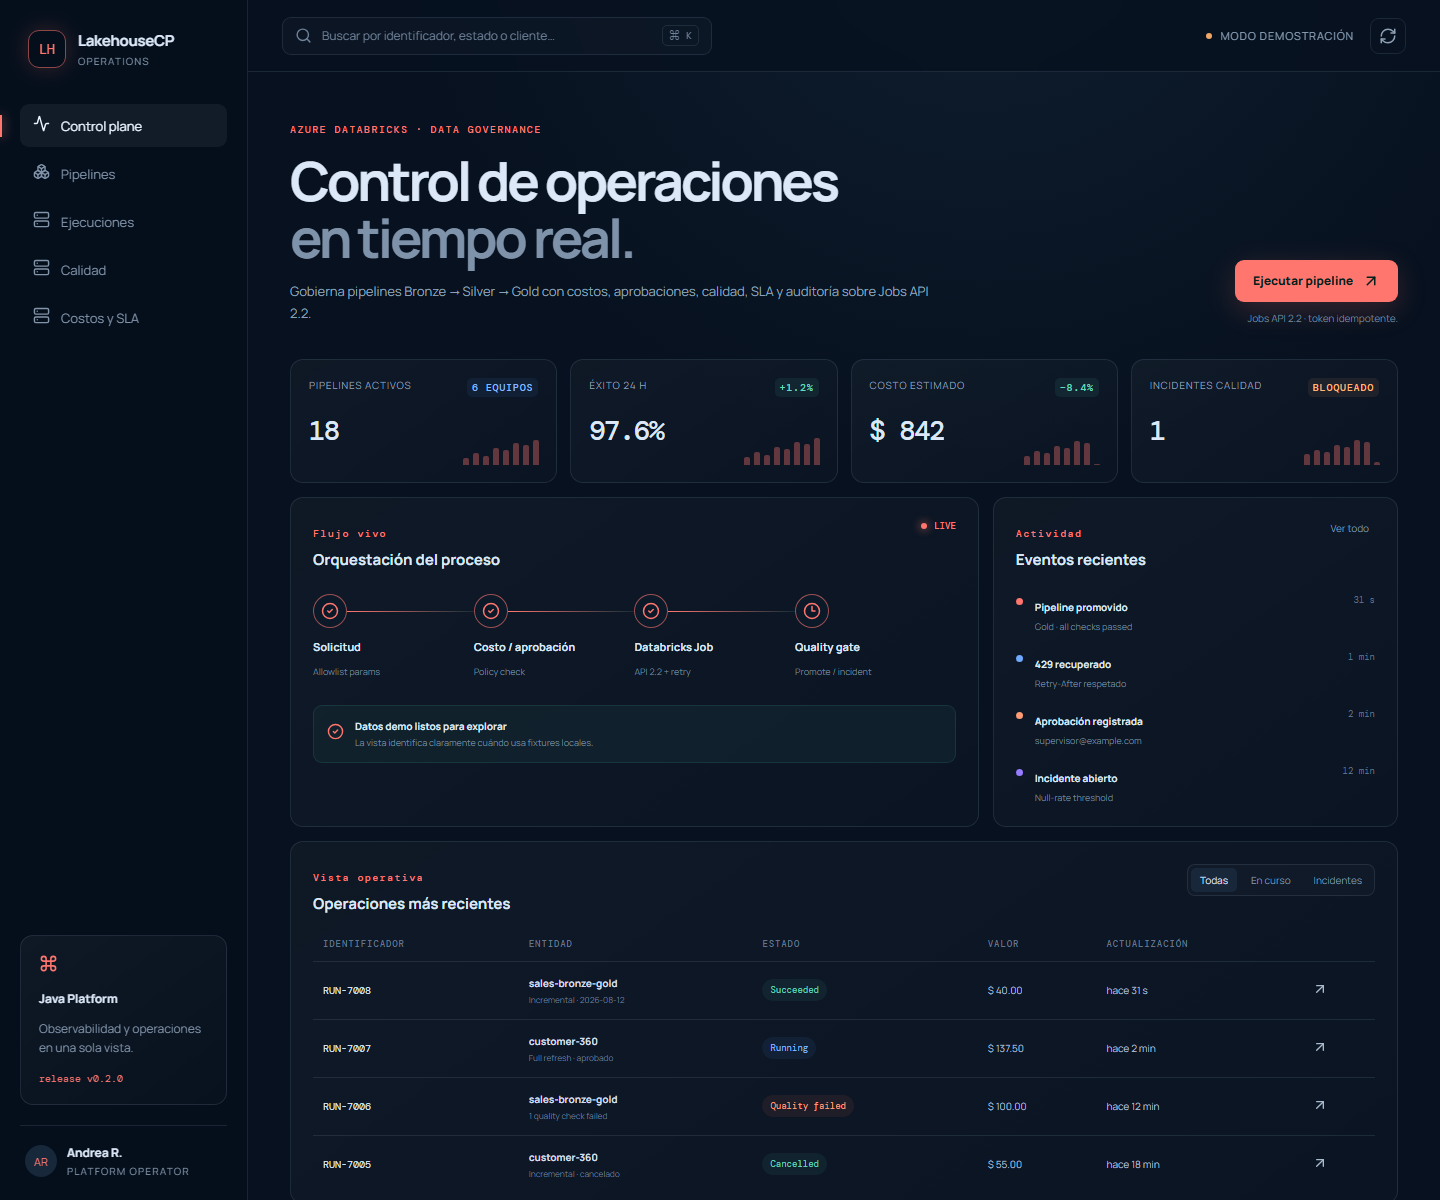
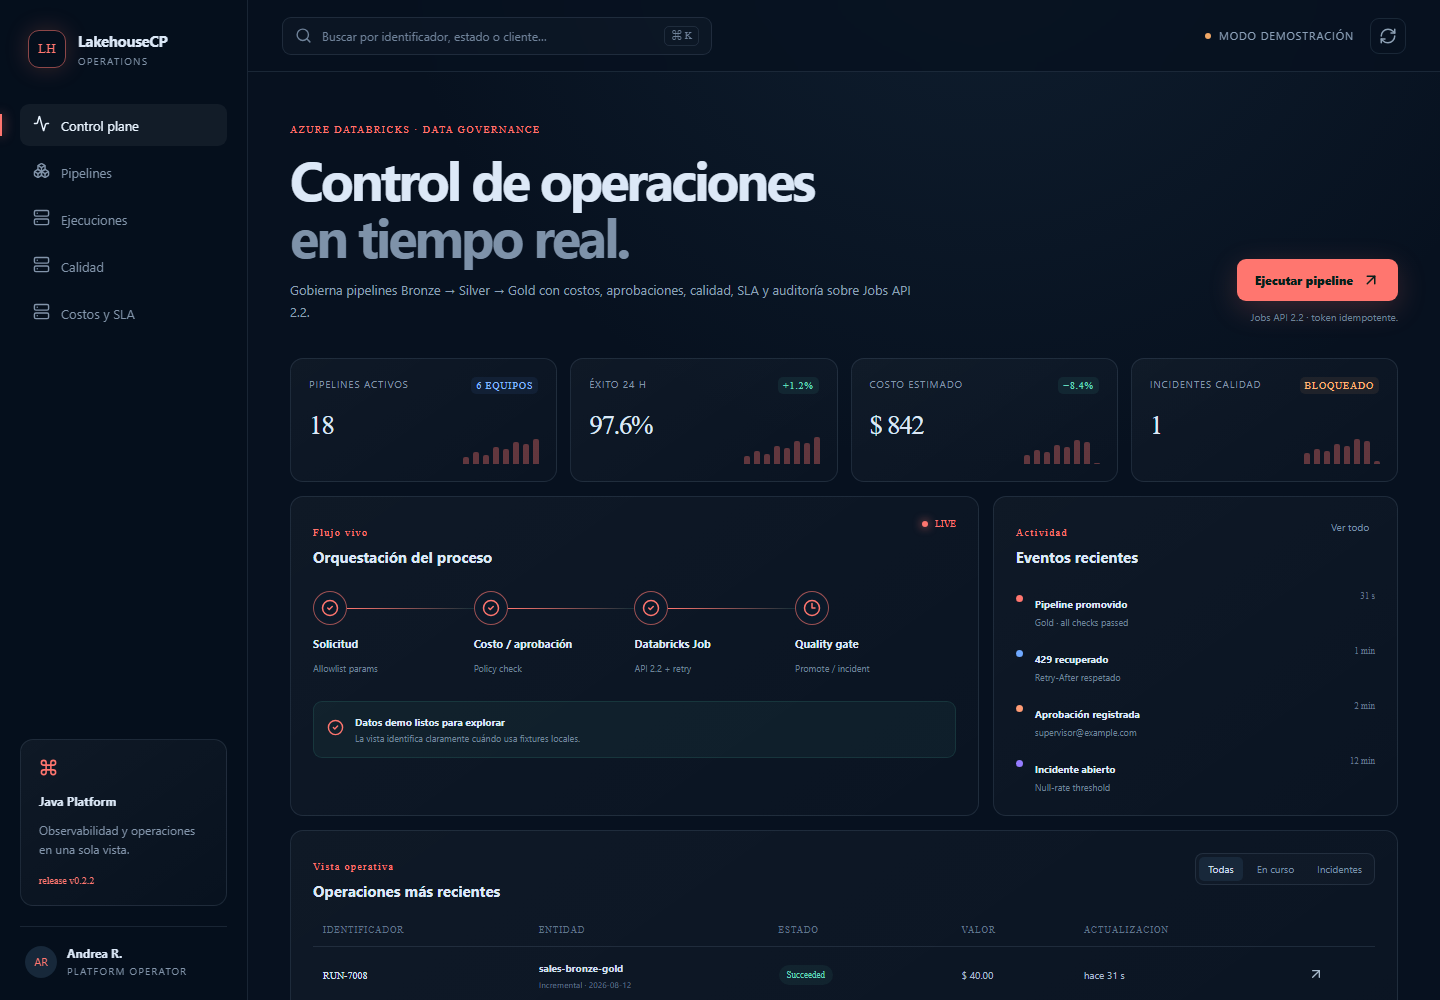
docs(portfolio): present project as complete case study

diff --git a/frontend/src/App.tsx b/frontend/src/App.tsx
@@ -18,7 +18,7 @@ export default function App() {
       <button className="close" aria-label="Cerrar menú" onClick={()=>setMobile(false)}><X/></button>
       <div className="brand"><span className="brand-mark">{project.initials}</span><div><b>{project.name}</b><small>Operations</small></div></div>
       <nav>{project.nav.map((item,index)=><button className={index===0?'active':''} key={item}><span>{index===0?<Activity size={17}/>:index===1?<Boxes size={17}/>:<Server size={17}/>}</span>{item}</button>)}</nav>
-      <div className="sidebar-card"><Command size={19}/><b>Java Platform</b><p>Observabilidad y operaciones en una sola vista.</p><span>release {project.release ?? 'v0.2.0'}</span></div>
+      <div className="sidebar-card"><Command size={19}/><b>Java Platform</b><p>Observabilidad y operaciones en una sola vista.</p><span>release {project.release ?? 'v0.2.2'}</span></div>
       <div className="profile"><span>AR</span><div><b>Andrea R.</b><small>Platform operator</small></div></div>
     </aside>
     <main>

diff --git a/README.md b/README.md
@@ -1,69 +1,220 @@
-# Lakehouse Control Plane
+<p align="center">
+  <img src="docs/screenshots/dashboard-desktop.png" alt="Consola DataOps Lakehouse Control Plane" width="820">
+</p>
 
-## Objetivo del proyecto
+<h1 align="center">Lakehouse Control Plane</h1>
 
-Demostrar gobierno operativo de Azure Databricks desde Java 17: ejecución
-idempotente, costos, aprobación, reintentos por throttling, calidad, incidentes
-y auditoría. La consola React presenta pipelines Bronze → Silver → Gold y sus
-controles sin requerir gasto de Azure para la demo local.
+<p align="center"><i>Gobierno de ejecuciones Azure Databricks con costos,
+aprobaciones, calidad, reintentos y auditoría desde Java.</i></p>
 
-## Evidencia visual
+<p align="center">
+  <a href="https://github.com/danielyatacoblas/lakehouse-control-plane/actions/workflows/ci.yml"><img src="https://github.com/danielyatacoblas/lakehouse-control-plane/actions/workflows/ci.yml/badge.svg?branch=main" alt="CI"></a>
+  <img src="https://img.shields.io/badge/Java-17-ED8B00?logo=openjdk&logoColor=white" alt="Java 17">
+  <img src="https://img.shields.io/badge/Spring_Boot-3.5-6DB33F?logo=springboot&logoColor=white" alt="Spring Boot">
+  <img src="https://img.shields.io/badge/Azure_Databricks-Jobs_API_2.2-FF3621?logo=databricks&logoColor=white" alt="Azure Databricks">
+  <img src="https://img.shields.io/badge/Azure-Bicep-0078D4?logo=microsoftazure&logoColor=white" alt="Azure Bicep">
+  <img src="https://img.shields.io/badge/PostgreSQL-auditoría-4169E1?logo=postgresql&logoColor=white" alt="PostgreSQL">
+  <img src="https://img.shields.io/badge/pruebas-4_aprobadas-2EAD33" alt="4 pruebas">
+  <a href="LICENSE"><img src="https://img.shields.io/badge/licencia-MIT-blue" alt="MIT"></a>
+</p>
 
-![Consola DataOps Lakehouse](docs/screenshots/dashboard-desktop.png)
+---
 
-| Arquitectura | Flujo funcional | GitFlow |
-|---|---|---|
-| ![Arquitectura](diagrams/rendered/architecture.svg) | ![Flujo](diagrams/rendered/flow.svg) | ![GitFlow](diagrams/rendered/gitflow.svg) |
+## Qué es
 
-Disponible también la [vista móvil](docs/screenshots/dashboard-mobile.png).
+Ejecutar un notebook no basta para gobernar una plataforma de datos. Un
+`full refresh` puede multiplicar el costo, un parámetro libre puede cambiar
+el origen equivocado y un pipeline con calidad fallida no debería promoverse a
+Gold aunque Databricks marque el job como terminado.
 
-## Consola web
+**Lakehouse Control Plane pone políticas delante de Jobs API 2.2.** Valida un
+catálogo permitido, calcula costo, solicita aprobación cuando corresponde,
+dispara la ejecución con token idempotente, recupera throttling HTTP 429 y
+convierte resultados de calidad en promoción o incidente auditable.
+
+---
+
+## Probarlo sin una cuenta de Azure
+
+La consola web funciona de inmediato con datos sintéticos:
 
 ```bash
-cd frontend
+git clone https://github.com/danielyatacoblas/lakehouse-control-plane.git
+cd lakehouse-control-plane/frontend
 npm ci
 npm run dev
 ```
 
-La UI abre en `http://localhost:5180` y enruta la API hacia
-`http://localhost:8098`.
+Abrir `http://localhost:5180`. No se requieren credenciales, tokens ni gasto
+de Azure. La UI identifica el modo demostración.
 
-Backend Java 17 + Spring Boot para gobernar ejecuciones Azure Databricks: catálogo, parámetros seguros, costo, aprobación, Jobs API 2.2, calidad, incidentes y auditoría.
+El backend también incluye un simulador local de Jobs API, por lo que todo el
+flujo puede ejecutarse sin Databricks real.
 
-## Capacidades demostrables
+---
 
-- `run-now` con `idempotency_token` igual al UUID interno.
-- Reintento con backoff ante HTTP 429 y polling de estado.
-- Allowlist de parámetros para evitar inyección en jobs/notebooks.
-- Full refresh con costo 2.5× y aprobación obligatoria sobre el umbral.
-- Reglas de calidad que bloquean la promoción y abren incidente.
-- Cancelación protegida por rol y registro de cada acción.
-- Dashboard, health/Prometheus, PostgreSQL/Flyway, Docker y CI.
-- Simulador local autónomo; Bicep para Azure Container Apps con Managed Identity.
+## Funcionalidades
 
-## Demo local sin costo Azure
+1. Catálogo de pipelines y allowlist de parámetros.
+2. Token de idempotencia igual al UUID interno de ejecución.
+3. Estimación de costo antes de disparar el job.
+4. `full refresh` con multiplicador 2.5× y aprobación por umbral.
+5. Integración Jobs API 2.2 con polling.
+6. Retry con backoff y respeto de `Retry-After` ante HTTP 429.
+7. Quality gates que bloquean promoción y crean incidentes.
+8. Cancelación y aprobación protegidas por rol.
+9. Auditoría PostgreSQL, dashboard, health y Prometheus.
+10. Bicep para Azure Container Apps con Managed Identity.
+
+---
+
+## Capturas
+
+| Escritorio | Móvil |
+|---|---|
+| <img src="docs/screenshots/dashboard-desktop.png" alt="Lakehouse escritorio" width="620"> | <img src="docs/screenshots/dashboard-mobile.png" alt="Lakehouse móvil" width="230"> |
+
+---
+
+## Arquitectura y ejecución
+
+<p align="center">
+  <img src="diagrams/rendered/architecture.svg" alt="Arquitectura Lakehouse Control Plane" width="820">
+</p>
+
+<p align="center">
+  <img src="diagrams/rendered/flow.svg" alt="Flujo de ejecución DataOps" width="820">
+</p>
+
+Consultar [arquitectura](docs/ARCHITECTURE.md) y
+[runbook operativo](docs/RUNBOOK.md) para los escenarios de diagnóstico.
+
+---
+
+## Decisiones de diseño
+
+- **Control plane separado del cómputo:** Java gobierna; Databricks ejecuta.
+- **Parámetros por allowlist:** no se reenvía cualquier clave recibida desde
+  Internet a un notebook.
+- **Idempotencia nativa:** Jobs API recibe el UUID ya persistido como
+  `idempotency_token`.
+- **Costo antes de ejecución:** una operación cara puede detenerse antes de
+  consumir infraestructura.
+- **Calidad como gate:** `TERMINATED/SUCCESS` no equivale automáticamente a
+  datos promovibles.
+- **429 es recuperable:** el cliente respeta `Retry-After` y no crea una
+  segunda ejecución.
+- **Credenciales fuera del repositorio:** Managed Identity/OAuth sustituyen
+  tokens personales versionados.
+
+---
+
+## Demo local completa
+
+Requiere Java 17, Docker y Node.js 24.
 
 ```bash
 docker compose up -d --wait
 ./gradlew bootRun
 ```
 
-Ejecución normal con throttling simulado:
+La API escucha en `http://localhost:8098` y el perfil local usa el simulador
+incluido.
 
 ```bash
-curl -X POST http://localhost:8098/api/v1/executions -H 'Content-Type: application/json' \
-  -d '{"pipelineKey":"sales-bronze-gold","requestedBy":"ana@example.com","parameters":{"source_date":"2026-08-11","simulate_rate_limit":"true"}}'
+curl -X POST http://localhost:8098/api/v1/executions +  -H "Content-Type: application/json" +  -d '{"pipelineKey":"sales-bronze-gold","requestedBy":"ana@example.com","parameters":{"source_date":"2026-08-13","simulate_rate_limit":"true"}}'
 ```
 
-Consulta `GET /api/v1/executions/{id}` tras unos segundos. Para calidad fallida agrega `"fail_quality":"true"`.
-
-Un full refresh queda `APPROVAL_REQUIRED` con costo `100.00`:
+Para simular fallo de calidad agregar `"fail_quality":"true"`. Un full
+refresh sobre el umbral queda en `APPROVAL_REQUIRED`:
 
 ```bash
-curl -X POST http://localhost:8098/api/v1/executions/{id}/approve \
-  -H 'X-Role: DATA_APPROVER' -H 'X-Actor: supervisor@example.com'
+curl -X POST http://localhost:8098/api/v1/executions/{id}/approve +  -H "X-Role: DATA_APPROVER" -H "X-Actor: supervisor@example.com"
 ```
 
-La integración Azure usa `DATABRICKS_HOST` y credenciales OAuth/identidad administrada externas. No se versionan tokens personales.
+---
 
-Consulta [docs/ARCHITECTURE.md](docs/ARCHITECTURE.md) y [docs/RUNBOOK.md](docs/RUNBOOK.md).
+## API
+
+| Método | Ruta | Uso |
+|---|---|---|
+| `POST` | `/api/v1/executions` | Solicitar ejecución |
+| `GET` | `/api/v1/executions/{id}` | Estado y calidad |
+| `POST` | `/api/v1/executions/{id}/approve` | Aprobar costo |
+| `POST` | `/api/v1/executions/{id}/cancel` | Cancelar por rol |
+| `GET` | `/api/v1/dashboard` | Resumen operativo |
+| `GET` | `/actuator/prometheus` | Métricas |
+
+---
+
+## Pruebas y comandos
+
+```bash
+./gradlew clean test bootJar --no-daemon
+cd frontend && npm ci && npm test && npm run build
+```
+
+| Comando | Resultado |
+|---|---|
+| `docker compose up -d --wait` | PostgreSQL local |
+| `./gradlew bootRun` | Control plane + simulador |
+| `./gradlew clean test` | Cost policy y catálogo |
+| `pwsh scripts/verify.ps1` | Verificación integral |
+| `pwsh scripts/render-diagrams.ps1` | Mermaid a SVG/PNG |
+
+---
+
+## Stack
+
+| Capa | Tecnología |
+|---|---|
+| Backend | Java 17, Spring Boot 3.5 |
+| Data platform | Azure Databricks Jobs API 2.2 |
+| Persistencia | PostgreSQL, Spring JDBC, Flyway |
+| Cloud | Azure Container Apps, Bicep, Managed Identity |
+| Gobierno | Allowlist, costo, aprobación, quality gate |
+| Observabilidad | Actuator, Prometheus, auditoría |
+| Frontend | React 19, TypeScript 7, Vite 8 |
+| Pruebas | JUnit, Testcontainers, Vitest |
+
+---
+
+## GitFlow
+
+<p align="center">
+  <img src="diagrams/rendered/gitflow.svg" alt="GitFlow Lakehouse" width="760">
+</p>
+
+`main` conserva releases; `develop` integra; `feature/*`, `docs/*`,
+`fix/*`, `hotfix/*` y `release/*` separan cambios. Los merges son
+`--no-ff`, los commits son convencionales y cada release tiene tag.
+
+---
+
+## Estructura
+
+```text
+lakehouse-control-plane/
+├── src/main/java/              # Política, Jobs API, simulador y REST
+├── src/main/resources/         # Configuración y Flyway
+├── src/test/                   # Costos y catálogo con PostgreSQL
+├── frontend/                   # Consola DataOps
+├── databricks/                 # Artefactos de plataforma de datos
+├── infra/                      # Bicep para Azure
+├── docs/                       # Arquitectura, runbook y capturas
+├── diagrams/                   # Arquitectura, flujo y GitFlow
+├── scripts/                    # Verificación y render
+├── Dockerfile
+└── compose.yaml                # Demo local
+```
+
+---
+
+## Autor
+
+[Daniel Yataco Blas](https://github.com/danielyatacoblas) — autor principal
+del diseño, implementación, pruebas y documentación.
+
+## Licencia
+
+[MIT](LICENSE) · Daniel Yataco Blas

diff --git a/docs/README.md b/docs/README.md
@@ -1,0 +1,12 @@
+# Documentación de Lakehouse Control Plane
+
+| Recurso | Contenido |
+|---|---|
+| [Arquitectura](ARCHITECTURE.md) | Jobs API, costos, calidad y auditoría |
+| [Runbook](RUNBOOK.md) | Operación, diagnóstico y recuperación |
+| [Capturas](screenshots) | Consola DataOps en escritorio y móvil |
+| [Diagramas](../diagrams) | Arquitectura, ejecución y GitFlow |
+| [Databricks](../databricks) | Artefactos de la integración |
+| [Infraestructura](../infra) | Bicep para Azure |
+
+Los diagramas se regeneran con `pwsh scripts/render-diagrams.ps1`.
